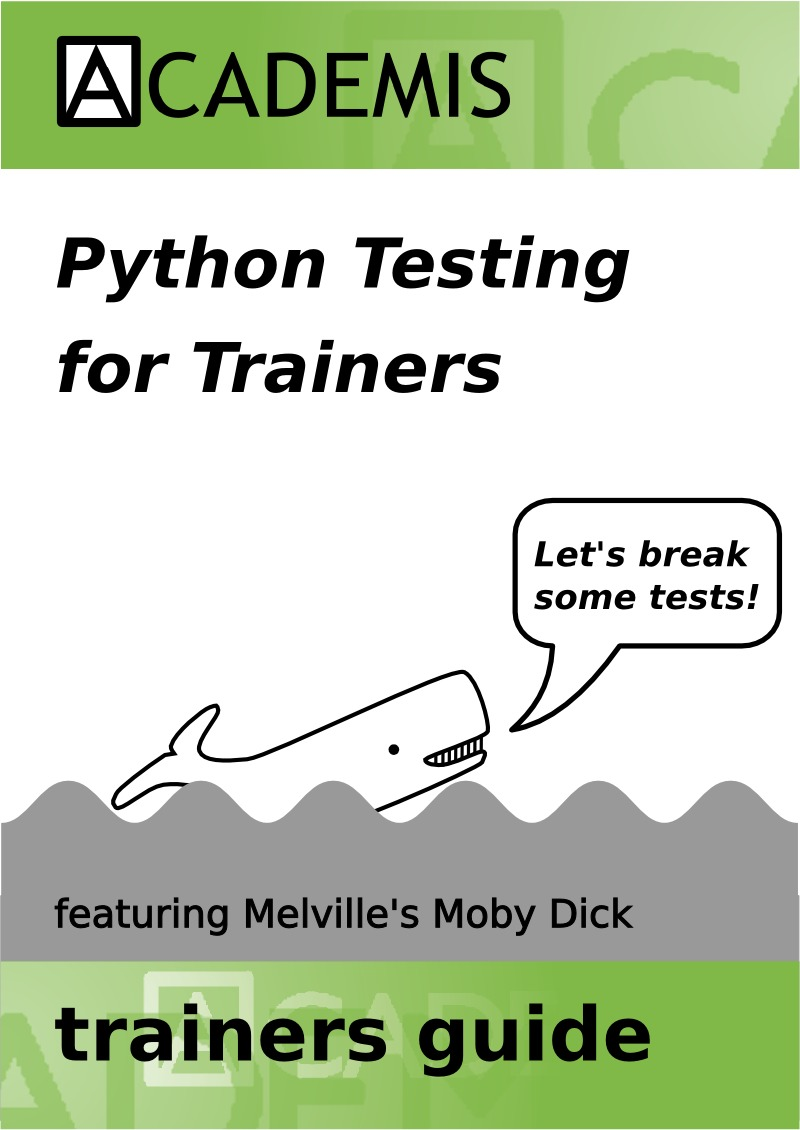
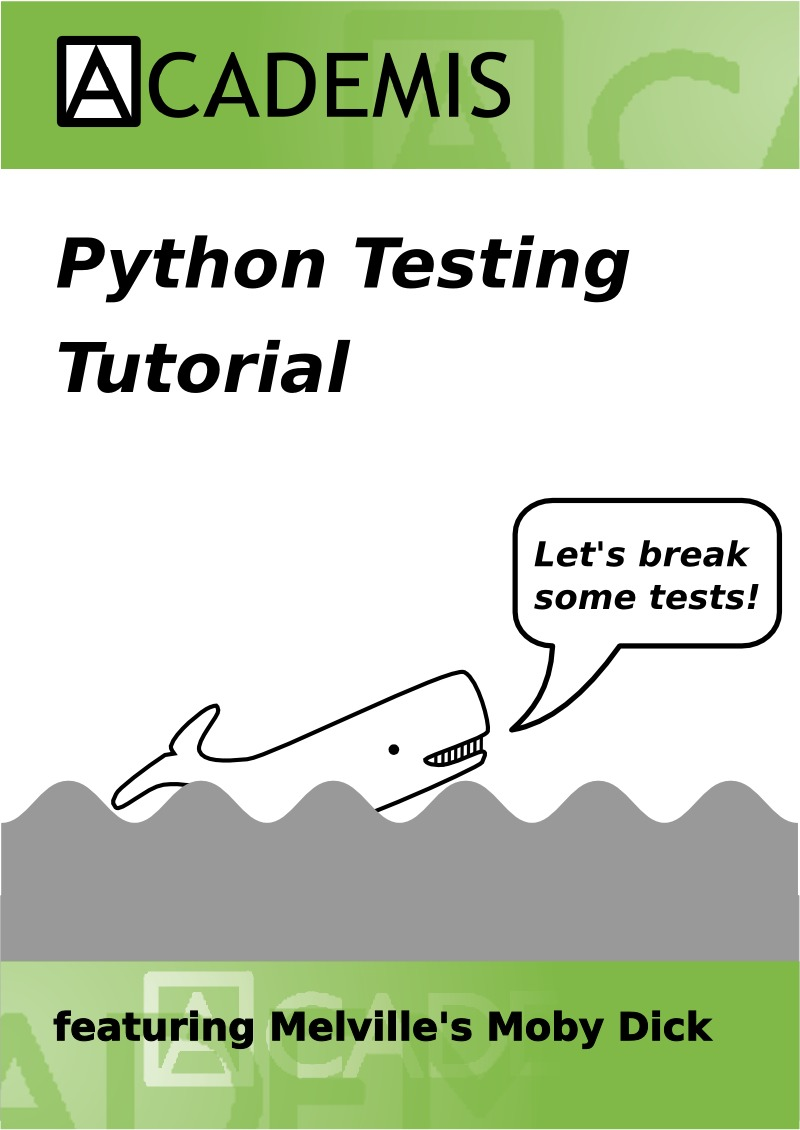
changed the title.. scary

Changed region(s): [[0.0625, 0.8673, 0.9062, 0.9602], [0.0625, 0.7743, 0.7812, 0.8363], [0.0625, 0.2788, 0.625, 0.3717]]

diff --git a/code/tests_unittest/test_1_4_border_cases.py b/code/tests_unittest/test_1_4_border_cases.py
@@ -1,0 +1,60 @@
+#!/usr/bin/env python
+"""
+Example of border cases
+
+TASK: insert the following assert_functions, so that each of them 
+is used at least once:
+
+    assertEqual, assertRaises, assertGreater, assertList_equal
+
+"""
+
+from mobydick import TextBody
+from unittest import TestCase, main
+
+
+class BorderCaseTests(TestCase):
+
+    def test_empty(self):
+        """Empty input works"""
+        text = TextBody('')
+        self.assert_x(text.word_number, 0)
+
+    def test_smallest(self):
+        """Minimal string works."""
+        text = TextBody("whale")
+        self.assert_x(text.words, ['whale'])
+        
+    def test_typical(self):
+        """Representative small input works."""
+        text = TextBody("whale eats captain")
+        self.assert_x(text.words, ['whale', 'eats', 'captain'])
+
+    def test_wrong_input(self):
+        """Non-string doesn't work"""
+        self.assert_x(TypeError, TextBody, 777)
+
+    def test_biggest(self):
+        """An entire book works."""
+        text = TextBody(open('moby_dick.txt').read())
+        self.assert_x(text.word_number, 200000)
+
+    def test_sanity(self):
+        """Feed output of a class into itself"""
+        text_a = TextBody(open('moby_dick.txt').read())
+        words_before = text_a.words[:]
+        copy = ' '.join(text_a.words)
+        text_b = TextBody(copy)
+        self.assert_x(words_before, text_b.words)
+
+    def test_nasty(self):
+        """Ugly data example works."""
+        text = TextBody("""That #~&%* program still doesn't work!
+    I already de-bugged it 3 times, and still numpy.array keeps throwing AttributeErrors.
+    What should I do?""")
+        self.assert_x(text.word_number, 22)
+
+
+if __name__ == '__main__':
+    main()
+

diff --git a/code/tests_unittest/test_5_1_test_suite.py b/code/tests_unittest/test_5_1_test_suite.py
@@ -1,0 +1,29 @@
+#!/usr/bin/env python
+#
+# Example of a class derived from TestCase 
+#
+
+from unittest import TestCase
+from word_counter import TextBody
+
+MOBYDICK_SUMMARY = open('mobydick_summary.txt').read()
+
+class AverageWordLengthTests(TestCase):
+    """Tests for word_counter module."""
+
+    def test_average_words(self):
+        """Simple average length."""
+        text = TextBody("white whale")
+        self.assertEqual(text.get_average_word_length(), 5)
+
+    def test_average_words_complex(self):
+        """Complex average length."""
+        text = TextBody(MOBYDICK_SUMMARY)
+        self.assertAlmostEqual(text.get_average_word_length(), 4.0, 3)
+
+    def test_average_empty(self):
+        """Tests behaviour when input is not a string."""
+        text = TextBody("")
+        self.assertRaises(TypeError, text.get_average_word_length)
+        
+

diff --git a/code/tests_unittest/test_4_2_fixtures.py b/code/tests_unittest/test_4_2_fixtures.py
@@ -1,0 +1,34 @@
+#!/usr/bin/env python
+#
+# example of tests with fixtures
+#
+
+from unittest import main, TestCase
+from mobydick.word_counter import TextBody
+
+
+def set_up(self):
+    """Prepare before each test"""
+    MOBYDICK_SUMMARY = open('../test_data/mobydick_summary.txt').read()
+    self.text = TextBody(MOBYDICK_SUMMARY)
+
+def test_count_months(self):
+    self.assertEqual(self.counter.count_word("months"), 1)
+
+def test_count_the(self):
+    """Count word in a longer text"""
+    self.assertEqual(self.counter.count_word("the"), 6)
+
+def test_word_number_text():
+    """Count words in a text paragraph"""
+    text = TextBody(MOBYDICK_SUMMARY)
+    assert_equal(text.word_number, 54)
+
+
+def tearDown(self):
+    """Clean up after a test has passed or failed."""
+    pass
+
+
+
+

diff --git a/code/tests_unittest/test_3_1_commandline.py b/code/tests_unittest/test_3_1_commandline.py
@@ -1,0 +1,35 @@
+#!/usr/bin/env python
+"""
+Example for testing a command-line app
+"""
+
+from unittest import TestCase, main
+import os
+
+PROGRAM = '../mobydick/word_counter.py'
+TEXT_FILE = '../test_data/mobydick_summary.txt'
+OUTPUT = 'out.tmp'
+
+
+class WordCounterAcceptanceTests(TestCase):
+
+    def test_commandline(self):
+        """Count words in a short text"""
+        # remove output file if it is already there
+        if os.path.exists(OUTPUT):
+            os.remove(OUTPUT)
+
+        # run the command line app
+        cmd = 'python %s %s white > %s' % (PROGRAM, TEXT_FILE, OUTPUT)
+        os.system(cmd)
+        
+        # check the output
+        out = open(OUTPUT).read()
+        self.assertTrue('white:\t2' in out)
+
+if __name__ == '__main__':
+    main()
+
+
+
+

diff --git a/code/mobydick/word_counter.py b/code/mobydick/word_counter.py
@@ -27,8 +27,8 @@ class TextBody:
 
 
 def count_word(text, word):
-        """Counts a single word."""
-        number = self.text.words.count(word)
+    """Counts a single word."""
+    number = text.words.count(word)
 
 
 
@@ -44,15 +44,6 @@ def get_top_words(text, n):
     data.sort()
     data.reverse()
     return data[:n]
-
-
-if __name__ == '__main__':
-    text = open(sys.argv[1]).read()
-    text = TextBody(text)
-    word = sys.argv[2]
-    counter = WordCounter(text)
-    count = counter.count_word(word)
-    print("%s:\t%i" % (word, count))
 
 
 if __name__ == '__main__':

diff --git a/code/tests_unittest/test_2_2_mock_object.py b/code/tests_unittest/test_2_2_mock_object.py
@@ -1,0 +1,29 @@
+#!/usr/bin/env python
+"""
+Example of a test with a mock object
+"""
+
+from unittest import main, TestCase
+from mobydick.word_counter import count_word
+
+MOBYDICK_SUMMARY = open('mobydick_summary.txt').read()
+
+class MockText:
+    words = ['the', 'white', 'white', 'whale']
+    word_number = 4
+
+
+class WordCounterTests(TestCase):
+
+    def test_count_word_simple(self):
+        """Count a single word"""
+        self.assertEqual(count_word(MockText, "white"), 2)
+
+
+
+if __name__ == '__main__':
+    main()
+
+
+
+

diff --git a/code/tests_unittest/test_1_2_broken_code.py b/code/tests_unittest/test_1_2_broken_code.py
@@ -1,0 +1,19 @@
+#!/usr/bin/env python
+"""
+Example of test that fails because of broken code.
+"""
+
+from mobydick import TextBody
+from unittest import TestCase, main
+
+class MobyDickBrokenCode(TestCase):
+
+    def test_average_word_length(self):
+        """Calculate average word length in a short sentence"""
+        text = TextBody("Call me Ishmael")
+        self.assertAlmostEqual(text.average_word_length, 4.333, 3)
+
+
+if __name__ == '__main__':
+    main()
+

diff --git a/code/tests_unittest/test_1_3_broken_test.py b/code/tests_unittest/test_1_3_broken_test.py
@@ -1,0 +1,21 @@
+
+#!/usr/bin/env python
+"""
+Example of test that fails because of a broken test.
+"""
+
+from mobydick import TextBody
+from unittest import TestCase, main
+
+class MobyDickBrokenTest(TestCase):
+
+    def test_words(self):
+        """The word attribute is a list"""
+        words = ['my', 'name', 'is', 'ishmael']
+        text = TextBody('Call me Ishmael')
+        self.assertListEqual(text.words, words)
+
+
+if __name__ == '__main__':
+    main()
+

diff --git a/code/tests_unittest/test_1_1_unit_test.py b/code/tests_unittest/test_1_1_unit_test.py
@@ -1,0 +1,19 @@
+#!/usr/bin/env python
+"""
+Example of a Unit Test
+"""
+
+from mobydick import TextBody
+from unittest import TestCase, main
+
+class MobyDickUnitTest(TestCase):
+
+    def test_word_number_two(self):
+        """Count words in a short sentence"""
+        text = TextBody("Call me Ishmael")
+        self.assertEqual(text.word_number, 3)
+
+
+if __name__ == '__main__':
+    main()
+

diff --git a/code/tests_unittest/test_4_1_import_data.py b/code/tests_unittest/test_4_1_import_data.py
@@ -1,0 +1,3 @@
+
+
+from test_data import NASTY_STRING

diff --git a/SUMMARY.md b/SUMMARY.md
@@ -1,17 +1,18 @@
 # Summary
 
-* [Python Testing for Trainers](README.md)
-* [Theme: Counting Words in Moby Dick](articles/mobydick_theme.md)
+* [Python Testing Tutorial](README.md)
 * [Challenges](articles/challenges.md)
 * [Test Frameworks in Python](articles/testing_frameworks_in_python.md)
    * [Reference: unittest](articles/reference_unittest.md)
    * [Reference: nose](articles/reference_nose.md)
    * [Reference: py.test](articles/reference_pytest.md)
-* [Lesson Plans](articles/lesson_plan.md)
-   * [Lesson Plan for a 180' tutorial](articles/lesson_plan_for_a_180_tutorial.md)
-   * [Lesson Plan for a 45' tutorial](articles/lesson_plan_for_a_45_tutorial.md)
-* [Activities](articles/activities.md)
-   * [Icebreaker Question](articles/icebreaker_question.md)
-   * [Quotes](articles/quotes.md)
-   * [Find Pairs](articles/find_pairs.md)
+* [Instructions for Trainers](articles/instructions_for_trainers.md)
+   * [Theme: Counting Words in Moby Dick](articles/mobydick_theme.md)
+   * [Lesson Plans](articles/lesson_plan.md)
+     * [Lesson Plan for a 180' tutorial](articles/lesson_plan_for_a_180_tutorial.md)
+     * [Lesson Plan for a 45' tutorial](articles/lesson_plan_for_a_45_tutorial.md)
+  * [Activities](articles/activities.md)
+     * [Icebreaker Question](articles/icebreaker_question.md)
+     * [Quotes](articles/quotes.md)
+     * [Find Pairs](articles/find_pairs.md)
 

diff --git a/README.md b/README.md
@@ -1,5 +1,4 @@
-# Python Testing for Trainers
-**A Course Building Toolkit**
+# Python Testing Tutorial
 
 ## Contributors
 Kristian Rother, Magdalena Rother, Daniel Szoska
@@ -10,25 +9,12 @@ Kristian Rother, Magdalena Rother, Daniel Szoska
 * PDF and EPUB versions: [https://www.gitbook.io/book/krother/testing-python-for-trainers](https://www.gitbook.io/book/krother/testing-python-for-trainers)
 
 ## Overview
-This toolkit helps you to prepare training courses on automated testing in Python. It allows you to create courses with interchangeable
 
-* testing frameworks
-* background of participants
-* course duration
+This tutorial helps you to learn automated testing in Python using any of the frameworks
 
-Our aim is to save you preparation time while leaving room for your own ideas. Most of all, we hope you have fun in your next course.
-
-## How to run a course using this toolkit
-
-1. Introduce the Moby Dick Theme to your trainees
-2. Copy the code in *code/mobydick* and *code/test_your_framework*.
-3. Set the PYTHONPATH environment variable, so that you can do
-
-    import mobydick
-
-4. Share the chapter "Challenges" with your trainees.
-5. Share the chapter "Reference" on your test framework with your trainees.
-6. Start coding!
+* unittest
+* nose
+* py.test
 
 ![Moby Dick](images/mobydick.png)
 
